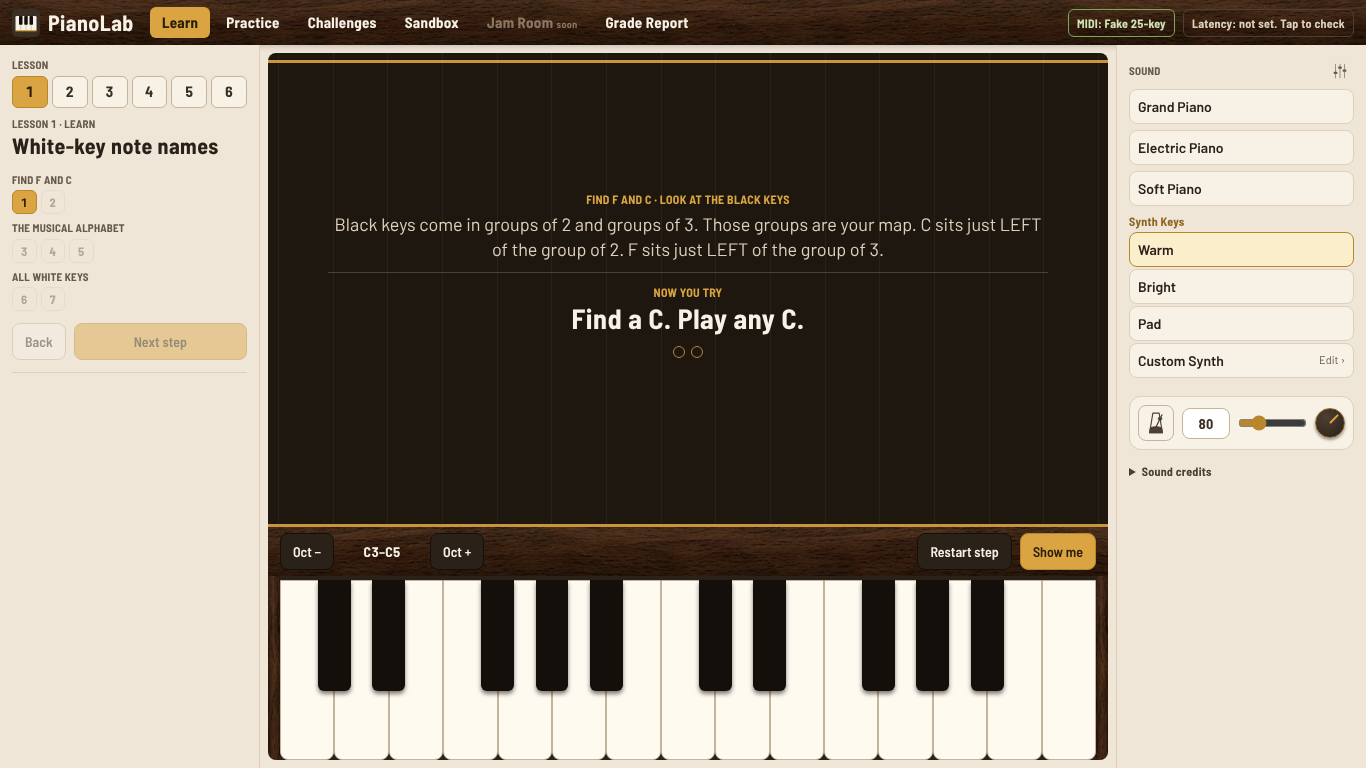
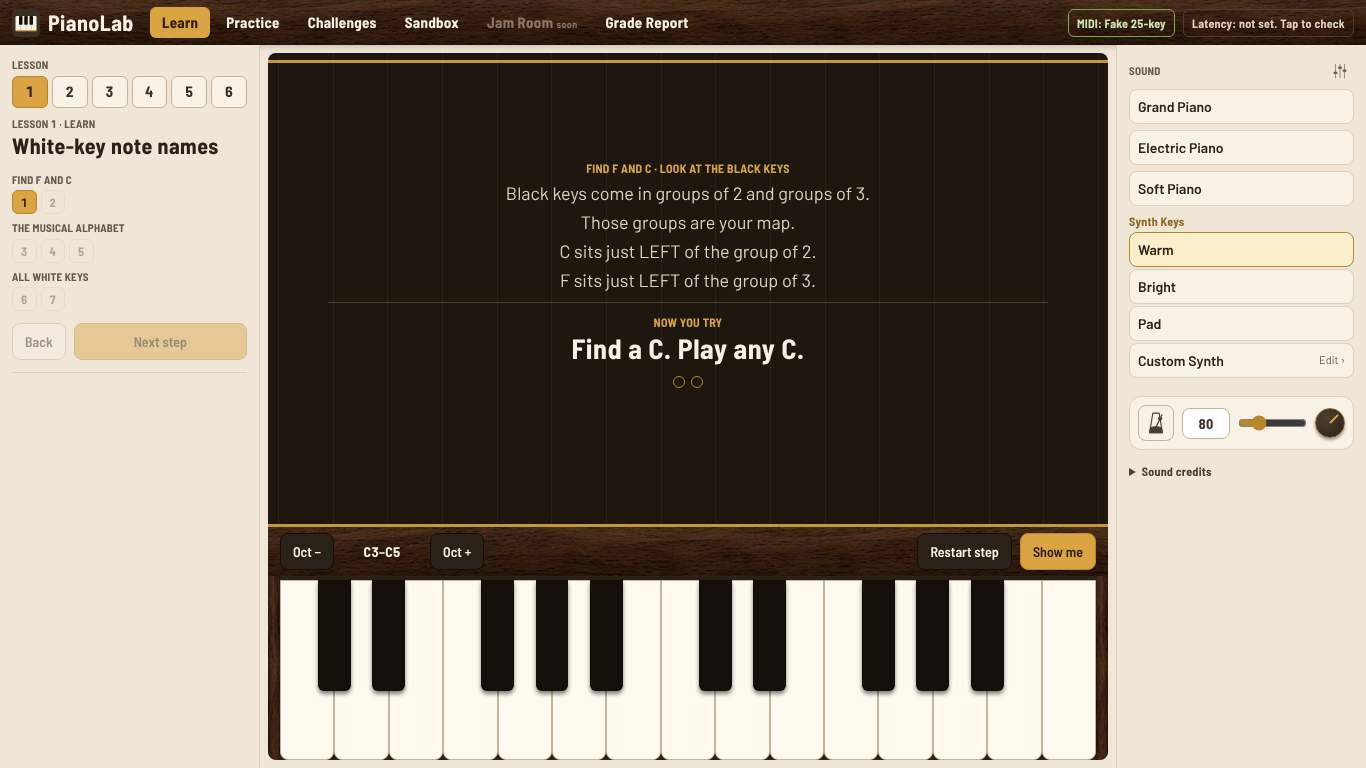
Lesson 3 Learn: chord strips on the Stage, real progressions to play, one sentence per line
- Learn explanations show one sentence per line
- Show steps can put chord strips on the Stage (lit as the demo plays, clickable); used in Lesson 2
  (Chords in a key, A minor) and Lesson 3
- Lesson 3: new "Same numerals, new key" step (I–V–vi–IV in C, then in G, on two strips);
  progression tries: play I–V–vi–IV and I–vi–IV–V in C, and i–VI–III–VII in A minor, chord by chord
- Content checks: progression chords belong to their key; strip keys exist

Claude-Session: https://claude.ai/code/session_01BKpVuPhRA97XbBJ5qPiwv4

Changed region(s): [[0.246, 0.1875, 0.7687, 0.4688]]

diff --git a/src/components/ModeLearn.tsx b/src/components/ModeLearn.tsx
@@ -1,6 +1,7 @@
 import { useCallback, useEffect, useRef, useState } from 'react';
 import { KEY_COUNT, isBlack, letterOf, parseNote, pc, pcOf, pretty } from '../utils/music';
-import { chordLongName, chordName, detectChord, matchesChord, parseChord } from '../utils/chords';
+import { chordName, degreeOf, detectChord, diatonic, keyById, matchesChord, parseChord, stripVoicing, KeyDef } from '../utils/chords';
+import { StripChips, textOn } from './ChordStrip';
 import { ModeCtx, ModeParts } from './modeTypes';
 import { useChordWatcher, useNoteListener } from './chordInput';
 
@@ -17,6 +18,13 @@ export function isWhiteTriad(held: number[]): boolean {
   if (w.some((x) => x === null)) return false;
   return (w[1] as number) - (w[0] as number) === 2 && (w[2] as number) - (w[1] as number) === 2;
 }
+
+/** Split an explanation into sentences (and at any line break in the text), so each shows on its own line. */
+export const sentences = (text: string) =>
+  text
+    .split(/\n|(?<=[.!?])\s+(?=[A-Z"“(])/)
+    .map((t) => t.trim())
+    .filter(Boolean);
 
 /** A demo entry: "C4" is one note, "C4+E4+G4" a chord. */
 const entryNotes = (e: string) => e.split('+').map(parseNote).filter((n): n is number => n !== null);
@@ -39,6 +47,9 @@ export function useLearn(ctx: ModeCtx): ModeParts {
   const steps = ctx.lesson.learn;
   const [i, setI] = useState(() => Math.min(ctx.learnStep, steps.length - 1));
   const [count, setCount] = useState(0);
+  /** Progression tries: how many chords of the progression have been played so far. */
+  const [progIdx, setProgIdx] = useState(0);
+  const progRef = useRef(0);
   const [msg, setMsg] = useState<{ kind: 'good' | 'hint'; text: string } | null>(null);
   /** The keys the demo is playing right now, and which demo entry that is. */
   const [demoLit, setDemoLit] = useState<Set<number> | null>(null);
@@ -95,10 +106,25 @@ export function useLearn(ctx: ModeCtx): ModeParts {
     // eslint-disable-next-line react-hooks/exhaustive-deps
   }, [ctx.engine]);
 
+  /** Clicking a chord on a Stage strip plays it (and lights its keys) for a moment. */
+  const playStrip = (k: KeyDef, degree: number) => {
+    demoRun.current++;
+    const notes = stripVoicing(k, degree);
+    void ctx.engine.unlock().then(() => notes.forEach((n) => ctx.engine.noteOn(n, 0.7)));
+    setDemoLit(new Set(notes));
+    setDemoing(false);
+    window.setTimeout(() => {
+      notes.forEach((n) => ctx.engine.noteOff(n));
+      setDemoLit((cur) => (cur && [...cur].join() === notes.join() ? null : cur));
+    }, 900);
+  };
+
   const goStep = (n: number, demo: boolean) => {
     const next = Math.max(0, Math.min(steps.length - 1, n));
     setI(next);
     setCount(0);
+    setProgIdx(0);
+    progRef.current = 0;
     usedKeys.current = new Set();
     setMsg(null);
     demoRun.current++;
@@ -117,6 +143,8 @@ export function useLearn(ctx: ModeCtx): ModeParts {
   useEffect(() => {
     setI(Math.min(ctx.learnStep, steps.length - 1));
     setCount(0);
+    setProgIdx(0);
+    progRef.current = 0;
     usedKeys.current = new Set();
     setMsg(null);
     demoRun.current++;
@@ -181,6 +209,27 @@ export function useLearn(ctx: ModeCtx): ModeParts {
           setMsg({ kind: 'good', text: n >= s.need ? `Yes! ${name}. That's four triads. Nice work.` : `Yes! That's a ${name} triad: ${pretty(letterOf(held[0]))} is the root. Now start on a different key.` });
           return n;
         });
+        return;
+      }
+      if (s.tryProgression) {
+        // A progression: each chord in turn, one after another.
+        const at = progRef.current;
+        const want = parseChord(s.tryProgression[at] ?? '');
+        if (!want) return;
+        const key = keyById(s.tryKey ?? 'C');
+        const num = diatonic(key).find((x) => x.chord.root === want.root && x.chord.quality === want.quality)?.numeral ?? '';
+        if (matchesChord(held, want)) {
+          const next = at + 1;
+          progRef.current = next;
+          setProgIdx(next);
+          if (next >= s.tryProgression.length) {
+            setCount(s.need);
+            setMsg({ kind: 'good', text: 'Yes! You played the whole progression. Nice work.' });
+          } else setMsg({ kind: 'good', text: `Yes, ${num}. Now the next one.` });
+          return;
+        }
+        const got = detectChord(held, key);
+        setMsg({ kind: 'hint', text: `${got ? `That is ${got.longName}${got.numeral ? ` (${got.numeral})` : ''}. ` : ''}The next chord is ${num} in ${key.label}. Let go and try again.` });
         return;
       }
       if (!s.tryChord) return;
@@ -279,7 +328,12 @@ export function useLearn(ctx: ModeCtx): ModeParts {
       <div className="h text-[12px] uppercase tracking-wider text-brass">
         {step.section === step.title ? step.title : `${step.section} · ${step.title}`}
       </div>
-      <p className="mt-1 text-[18px] leading-snug text-line">{step.say}</p>
+      {/* One sentence per line, so each idea stands on its own. */}
+      <div className="mt-1 flex flex-col gap-1 text-[18px] leading-snug text-line">
+        {sentences(step.say).map((line, k) => (
+          <p key={k}>{line}</p>
+        ))}
+      </div>
     </div>
   );
 
@@ -289,13 +343,30 @@ export function useLearn(ctx: ModeCtx): ModeParts {
       <div className="h text-[12px] uppercase tracking-wider text-brass" data-testid="learn-prompt">
         Watch and listen
       </div>
-      <div className="h flex flex-wrap justify-center gap-x-3 gap-y-1 text-[26px] tracking-wide text-line2" aria-hidden="true">
-        {(step.demo ?? []).map((n, k) => (
-          <span key={k} className={k === demoIdx ? 'text-brass' : ''}>
-            {entryLabel(n)}
-          </span>
-        ))}
-      </div>
+      {step.strip?.length ? (
+        // The chord strip on the Stage: the chord being played lights up.
+        <div className="flex w-full max-w-[820px] flex-col gap-1.5" data-testid="learn-strips">
+          {step.strip.map((id) => {
+            const k = keyById(id);
+            const mine = !step.demoKeys || step.demoKeys[demoIdx] === id;
+            const deg = demoLit && mine ? degreeOf(k, [...demoLit]) : -1;
+            return (
+              <div key={id} className="wood flex items-center gap-2 rounded-lg px-2 py-1.5">
+                <span className="h w-[86px] shrink-0 text-left text-[13px] text-line">{k.label}</span>
+                <StripChips keyDef={k} lit={(d) => d === deg} onPlay={(d) => playStrip(k, d)} testid={`learn-strip-${id}`} />
+              </div>
+            );
+          })}
+        </div>
+      ) : (
+        <div className="h flex flex-wrap justify-center gap-x-3 gap-y-1 text-[26px] tracking-wide text-line2" aria-hidden="true">
+          {(step.demo ?? []).map((n, k) => (
+            <span key={k} className={k === demoIdx ? 'text-brass' : ''}>
+              {entryLabel(n)}
+            </span>
+          ))}
+        </div>
+      )}
       <div className="flex gap-2">
         <button className="btn btn-dark text-[16px]" onClick={() => void showMe()} disabled={demoing}>
           {demoing ? 'Playing…' : '▶ Play it again'}
@@ -312,7 +383,23 @@ export function useLearn(ctx: ModeCtx): ModeParts {
           {step.tryText}
         </div>
       </div>
-      <div className="flex gap-1.5" aria-label={`${count} of ${step.need} done`}>
+      {step.tryProgression && (
+        // The progression as numerals; each lights up once it has been played.
+        <div className="flex gap-1.5" data-testid="prog-chips">
+          {step.tryProgression.map((c, k) => {
+            const key = keyById(step.tryKey ?? 'C');
+            const ch = parseChord(c);
+            const d = ch ? diatonic(key).find((x) => x.chord.root === ch.root && x.chord.quality === ch.quality) : undefined;
+            const done = k < progIdx || stepDone;
+            return (
+              <span key={k} className={`h rounded-md px-3 py-1 text-[22px] ${done ? '' : 'opacity-40'} ${k === progIdx && !stepDone ? 'ring-2 ring-panel' : ''}`} style={{ background: d?.color ?? '#66584a', color: textOn(d?.color ?? '#66584a') }}>
+                {d?.numeral ?? c}
+              </span>
+            );
+          })}
+        </div>
+      )}
+      <div className={`flex gap-1.5 ${step.tryProgression ? 'hidden' : ''}`} aria-label={`${count} of ${step.need} done`}>
         {Array.from({ length: step.need }, (_, k) => (
           <span key={k} className={`h-3 w-3 rounded-full border border-brass2 ${k < count ? 'bg-brass' : 'bg-transparent'}`} />
         ))}

diff --git a/src/components/ChordStrip.tsx b/src/components/ChordStrip.tsx
@@ -2,7 +2,7 @@ import React from 'react';
 import { Detected, KEYS, KeyDef, chordName, diatonic } from '../utils/chords';
 
 /** Dark text on the light colours (yellow, lime, orange), light text on the rest. */
-const textOn = (hex: string) => {
+export const textOn = (hex: string) => {
   const n = parseInt(hex.slice(1), 16);
   const lum = 0.299 * ((n >> 16) & 255) + 0.587 * ((n >> 8) & 255) + 0.114 * (n & 255);
   return lum > 150 ? '#2a1e08' : '#fff8ea';
@@ -35,24 +35,30 @@ export const ChordStrip: React.FC<{
         </option>
       ))}
     </select>
-    <div className="flex min-w-0 flex-1 gap-1">
-      {diatonic(keyDef).map((d) => {
-        const on = playing === d.degree || (!!active && active.chord.root === d.chord.root && active.chord.quality === d.chord.quality);
-        return (
-          <button
-            key={d.degree}
-            onClick={() => onPlay(d.degree)}
-            data-testid={`strip-${d.degree}`}
-            title={`${chordName(d.chord)} (${d.numeral}). Click or press ${d.degree + 1} to hear it.`}
-            className={`h relative flex min-w-0 flex-1 flex-col items-center rounded-md px-1 py-0.5 leading-tight transition-transform ${on ? 'scale-105 ring-2 ring-panel' : 'opacity-90 hover:opacity-100'}`}
-            style={{ background: d.color, color: textOn(d.color) }}
-          >
-            <span className="absolute left-1 top-0.5 text-[9px] opacity-60">{d.degree + 1}</span>
-            <span className="truncate text-[15px]">{chordName(d.chord)}</span>
-            <span className="truncate text-[12px] opacity-90">{d.numeral}</span>
-          </button>
-        );
-      })}
-    </div>
+    <StripChips keyDef={keyDef} lit={(d) => playing === d || (!!active && diatonic(keyDef)[d].chord.root === active.chord.root && diatonic(keyDef)[d].chord.quality === active.chord.quality)} onPlay={onPlay} />
+  </div>
+);
+
+/** The seven coloured chord buttons of a key (used by the chord strip, and on the Stage in Learn). */
+export const StripChips: React.FC<{ keyDef: KeyDef; lit: (degree: number) => boolean; onPlay?: (degree: number) => void; testid?: string }> = ({ keyDef, lit, onPlay, testid }) => (
+  <div className="flex min-w-0 flex-1 gap-1" data-testid={testid}>
+    {diatonic(keyDef).map((d) => {
+      const on = lit(d.degree);
+      return (
+        <button
+          key={d.degree}
+          onClick={() => onPlay?.(d.degree)}
+          data-testid={`strip-${d.degree}`}
+          data-on={on ? 'yes' : undefined}
+          title={`${chordName(d.chord)} (${d.numeral}). Click${onPlay ? '' : ''} to hear it.`}
+          className={`h relative flex min-w-0 flex-1 flex-col items-center rounded-md px-1 py-0.5 leading-tight transition-transform ${on ? 'scale-105 ring-2 ring-panel' : 'opacity-90 hover:opacity-100'}`}
+          style={{ background: d.color, color: textOn(d.color) }}
+        >
+          <span className="absolute left-1 top-0.5 text-[9px] opacity-60">{d.degree + 1}</span>
+          <span className="truncate text-[15px]">{chordName(d.chord)}</span>
+          <span className="truncate text-[12px] opacity-90">{d.numeral}</span>
+        </button>
+      );
+    })}
   </div>
 );

diff --git a/src/data/lessons.test.ts b/src/data/lessons.test.ts
@@ -1,7 +1,7 @@
 import { describe, expect, it } from 'vitest';
 import lessons from './lessons.json';
 import { Lesson } from '../types';
-import { parseChord } from '../utils/chords';
+import { KEYS, chordName, diatonic, keyById, parseChord } from '../utils/chords';
 import { parseNote, pcOf } from '../utils/music';
 
 const LESSONS = lessons.lessons as unknown as Lesson[];
@@ -15,9 +15,13 @@ describe('lesson content', () => {
     for (const l of LESSONS)
       for (const s of l.learn) {
         for (const d of s.demo ?? []) for (const n of d.split('+')) expect(parseNote(n), `${s.id} demo ${n}`).not.toBeNull();
-        if (!s.show) expect((s.tryAnswer?.length ?? 0) + (s.tryChord?.length ?? 0) + (s.tryTriad ? 1 : 0), `${s.id} has an answer`).toBeGreaterThan(0);
+        if (!s.show) expect((s.tryAnswer?.length ?? 0) + (s.tryChord?.length ?? 0) + (s.tryTriad ? 1 : 0) + (s.tryProgression?.length ?? 0), `${s.id} has an answer`).toBeGreaterThan(0);
         for (const a of s.tryAnswer ?? []) expect(pcOf(a), `${s.id} answer ${a}`).not.toBeNull();
-        for (const c of s.tryChord ?? []) expect(parseChord(c), `${s.id} chord ${c}`).not.toBeNull();
+        for (const c of [...(s.tryChord ?? []), ...(s.tryProgression ?? [])]) expect(parseChord(c), `${s.id} chord ${c}`).not.toBeNull();
+        // Every progression chord belongs to its key, and every strip/demoKeys key exists.
+        if (s.tryProgression) for (const c of s.tryProgression) expect(diatonic(keyById(s.tryKey ?? 'C')).some((d) => chordName(d.chord) === chordName(parseChord(c)!)), `${s.id}: ${c} in ${s.tryKey}`).toBe(true);
+        for (const k of [...(s.strip ?? []), ...(s.demoKeys ?? [])]) expect(KEYS.some((x) => x.id === k), `${s.id} key ${k}`).toBe(true);
+        if (s.demoKeys) expect(s.demoKeys.length, `${s.id} demoKeys`).toBe(s.demo?.length);
       }
   });
   it('every level prompt makes sense for its type', () => {

diff --git a/src/App.tsx b/src/App.tsx
@@ -11,7 +11,7 @@ import { BatchModal, LatencyModal } from './components/Modals';
 import { GradeReport } from './components/GradeReport';
 import { LessonPicker } from './components/LessonPicker';
 import { ChordStrip } from './components/ChordStrip';
-import { INVERSION_NAMES, chordLongName, detectChord, diatonic, keyById, voicing } from './utils/chords';
+import { INVERSION_NAMES, detectChord, diatonic, keyById, stripVoicing } from './utils/chords';
 import { useSandbox } from './components/ModeSandbox';
 import { RestorePrompt, SaveIndicator, SaveStatus } from './components/SaveUI';
 import { useLearn } from './components/ModeLearn';
@@ -75,8 +75,7 @@ export default function App() {
       if (!d) return;
       stripNotes.current.forEach((n) => engine.noteOff(n));
       window.clearTimeout(stripTimer.current);
-      const rootMidi = 48 + stripKey.tonic + ((d.chord.root - stripKey.tonic + 12) % 12);
-      const notes = voicing(d.chord, 0, rootMidi);
+      const notes = stripVoicing(stripKey, degree);
       stripNotes.current = notes;
       setStripLit(new Set(notes));
       setStripActive(degree);

diff --git a/src/utils/chords.ts b/src/utils/chords.ts
@@ -240,6 +240,20 @@ export function detectChord(held: number[], k?: KeyDef): Detected | null {
   };
 }
 
+/**
+ * How a strip chord is played: root position, the key's I in octave 3 and each chord's root climbing the scale from it,
+ * so going I to vii never jumps down an octave.
+ */
+export function stripVoicing(k: KeyDef, degree: number): number[] {
+  const d = diatonic(k)[degree];
+  return voicing(d.chord, 0, 48 + k.tonic + ((d.chord.root - k.tonic + 12) % 12));
+}
+
+/** Which of the key's seven chords these keys make (any octave/inversion), or -1. */
+export function degreeOf(k: KeyDef, held: number[]): number {
+  return diatonic(k).findIndex((d) => matchesChord(held, d.chord));
+}
+
 // ---------- Smooth Mover ----------
 /** Half steps moved from one voicing to another: pair the notes low-to-high (both are 3 notes). */
 export const moveDistance = (from: number[], to: number[]) => {

diff --git a/src/types.ts b/src/types.ts
@@ -97,6 +97,13 @@ export interface LearnStep {
   /** Or: chords that count as right ("F", "Dm"). Any octave/inversion unless `tryInversion` is set. */
   tryChord?: string[];
   tryInversion?: number;
+  /** Or: a progression, played one chord after another ("C", "G", "Am", "F"), in the key `tryKey` (for the numerals shown). */
+  tryProgression?: string[];
+  tryKey?: string;
+  /** Show-and-tell: chord strips on the Stage (key ids, e.g. ["C"] or ["C", "G"]) in place of the chord names. */
+  strip?: string[];
+  /** With two strips: which strip each demo entry belongs to (key id per entry), so only that strip lights up. */
+  demoKeys?: string[];
   /** How many correct answers finish the step (0 for show-and-tell). Notes must be in different places. */
   need: number;
   hint?: string;

diff --git a/CLAUDE.md b/CLAUDE.md
@@ -101,8 +101,16 @@ lesson picker (all lessons open; later the teacher's assignment link can decide)
   numerals always shown (no checkbox). Click a chord or press 1-7: one chord at a time (the last is cut off), voiced from
   a low I upward (I in octave 3, roots climbing) so there's no jump down. Strip chords go straight to the sound engine,
   not the piano: they never count in Learn/Practice/Challenges and the Sandbox doesn't record them.
-- Learn layout: the explanation ("say") sits in the centre stage right above "Now you try"; the left panel only has the
-  step list and Back/Next. Demos shift by whole octaves to stay on the keys on screen.
+- The middle area: suggested name **the Stage** (my suggestion, not yet confirmed by him; `data-testid="stage"`).
+- Learn layout: the explanation ("say") sits on the Stage right above "Now you try", **one sentence per line**
+  (`sentences()` in ModeLearn splits on sentence ends and on "\n"); the left panel only has the step list and Back/Next.
+  Demos shift by whole octaves to stay on the keys on screen.
+- Learn show steps can put chord strips on the Stage (`strip: ["C"]`, or two: `["C","G"]` with `demoKeys` saying which
+  strip each demo chord belongs to); the chord playing lights up; click a chord to hear it. Used in Lesson 2 (Chords in a
+  key, A minor) and Lesson 3 (numerals, I–V–vi–IV, the same in G, A minor). Strips are never on try steps (answers).
+- Progression tries (`tryProgression` + `tryKey`): play the chords one after another; numeral chips fill in; a wrong or
+  out-of-order chord is named with its numeral and the next numeral is given. Lesson 3: I–V–vi–IV, I–vi–IV–V in C, and
+  i–VI–III–VII in A minor.
 - Lesson 2 (now "White-key triads"): triad / third / root, 3rd, 5th language; "Build 4 triads" accepts any white-key
   stacked triad (root, skip, 3rd, skip, 5th; `tryTriad`), each on a different root; hints say "Find a D and build the
   triad up from there". Levels in order: Name C, F and G (`l2-name-cfg`) · Build C, F and G · Name all white-key triads ·
